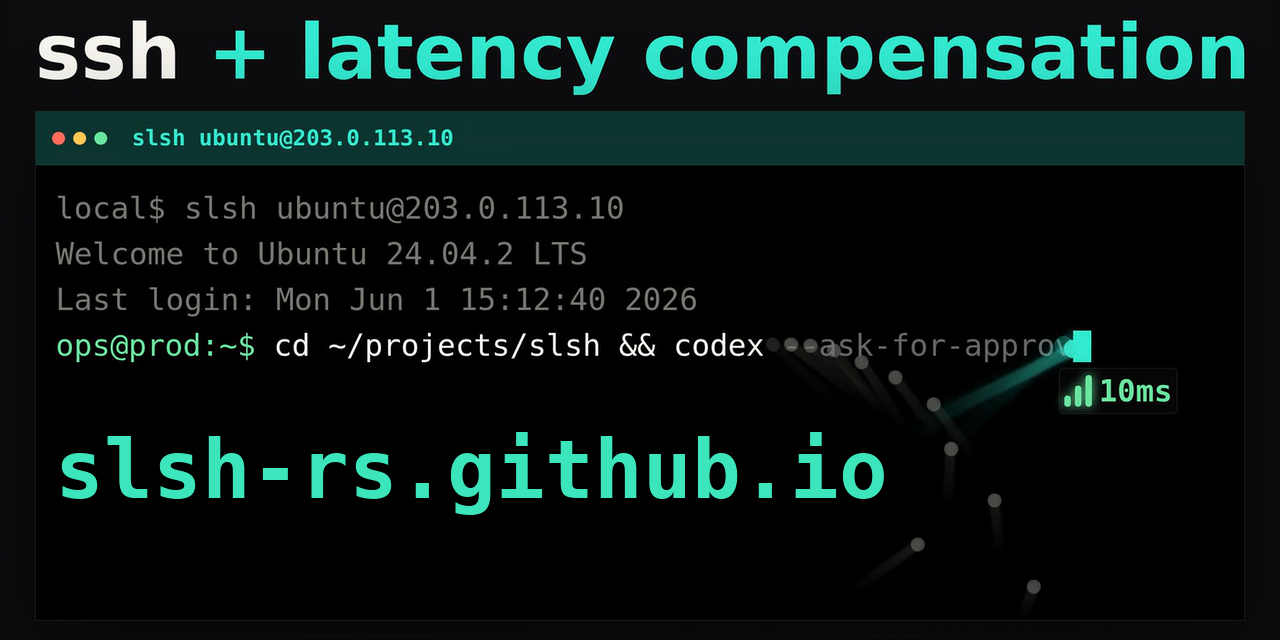
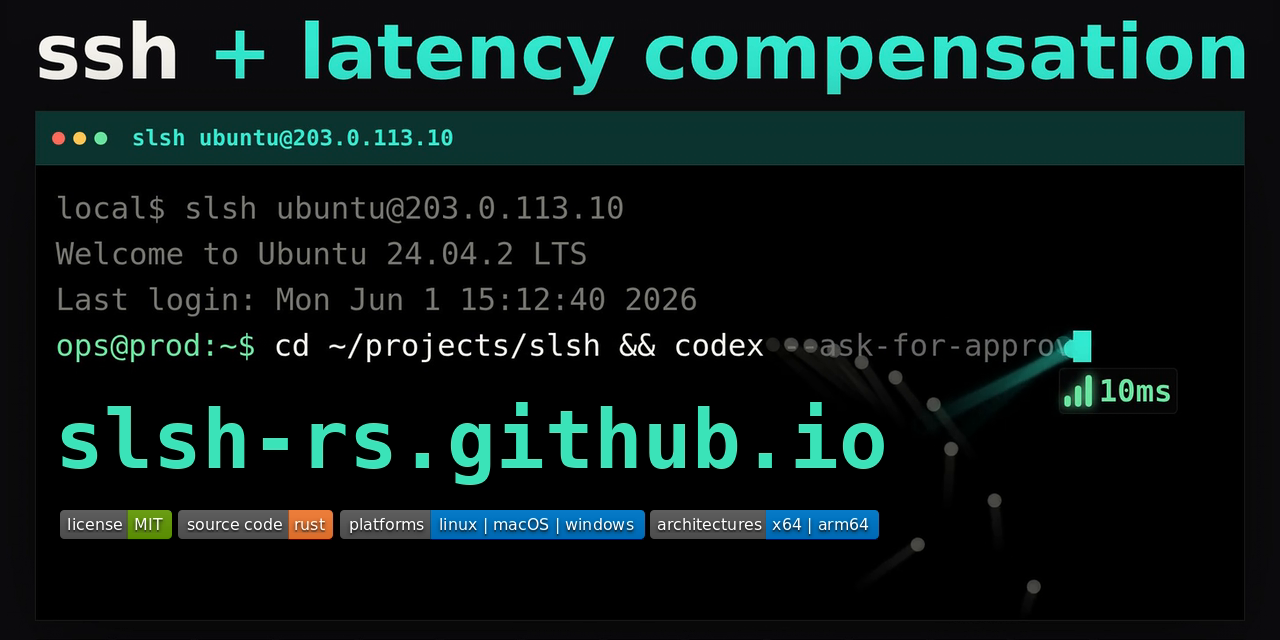
tight badge row

diff --git a/README.md b/README.md
@@ -7,11 +7,11 @@
     <img src="https://img.shields.io/github/v/release/KentoNishi/slsh?label=latest%20version&color=green&style=flat" alt="latest version">
   </a>
   <img src="https://img.shields.io/badge/license-MIT-green?style=flat" alt="license: MIT">
-  <img src="https://img.shields.io/badge/platforms-linux%20%7C%20macOS%20%7C%20windows-blue?style=flat" alt="platforms: linux, macOS, windows">
-  <img src="https://img.shields.io/badge/architectures-x64%20%7C%20arm64-blue?style=flat" alt="architectures: x64, arm64">
   <a href="https://github.com/KentoNishi/slsh">
     <img src="https://img.shields.io/badge/source%20code-rust-orange?style=flat" alt="source code: rust">
   </a>
+  <img src="https://img.shields.io/badge/platforms-linux%20%7C%20macOS%20%7C%20windows-blue?style=flat" alt="platforms: linux, macOS, windows">
+  <img src="https://img.shields.io/badge/architectures-x64%20%7C%20arm64-blue?style=flat" alt="architectures: x64, arm64">
 </p>
 
 <p align="center">